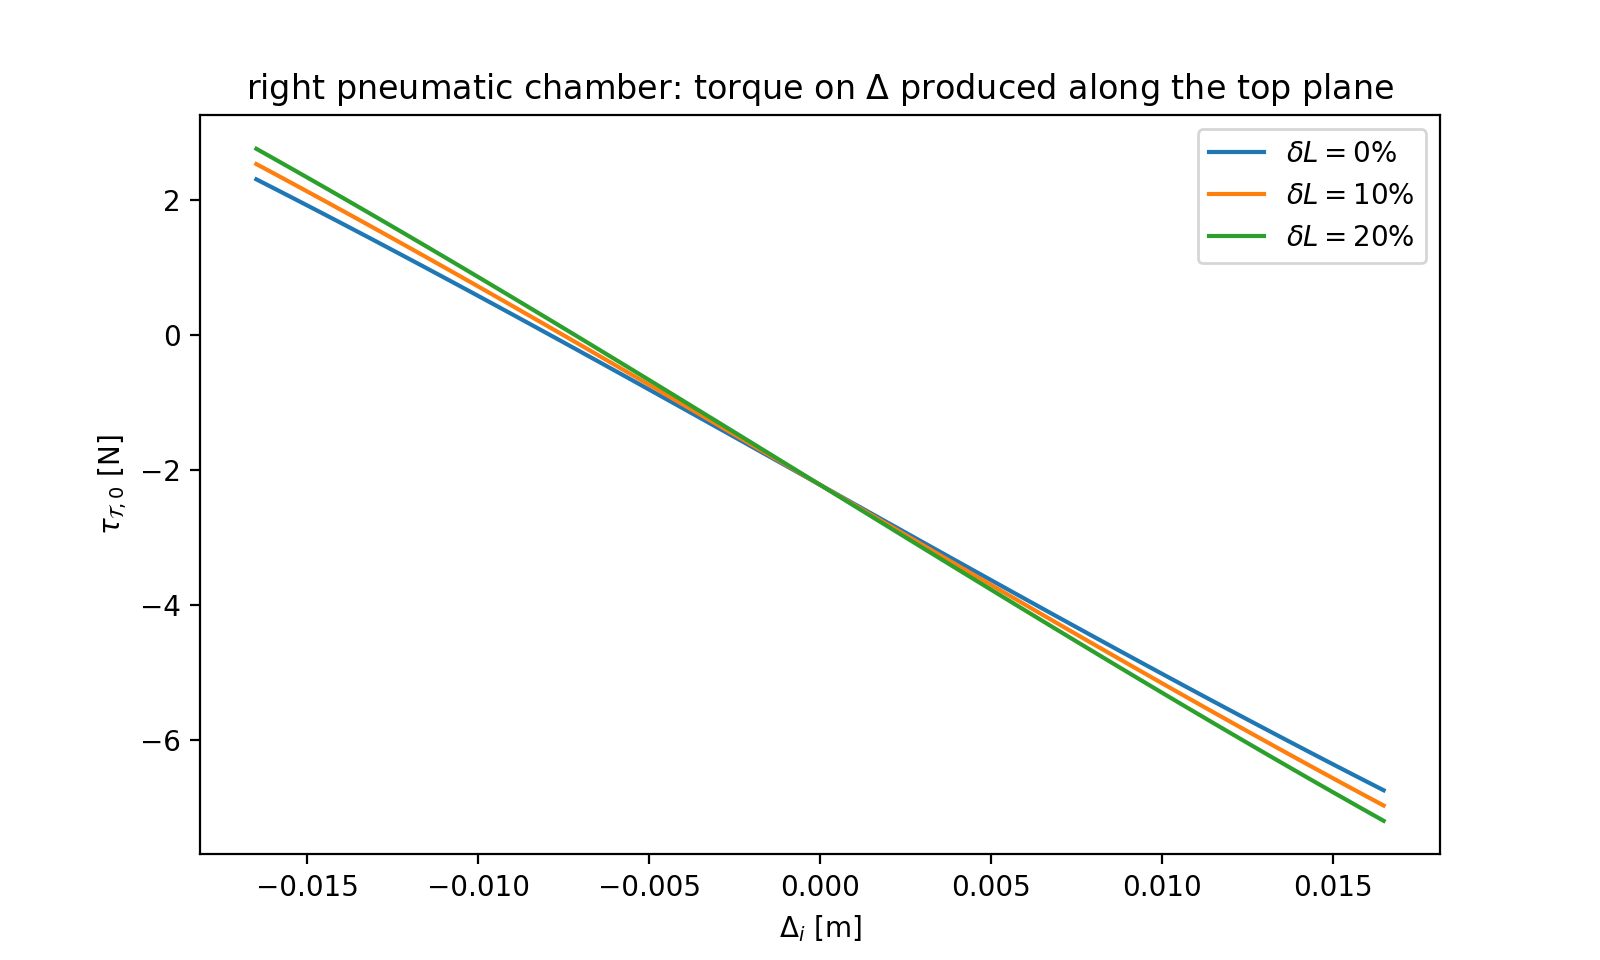
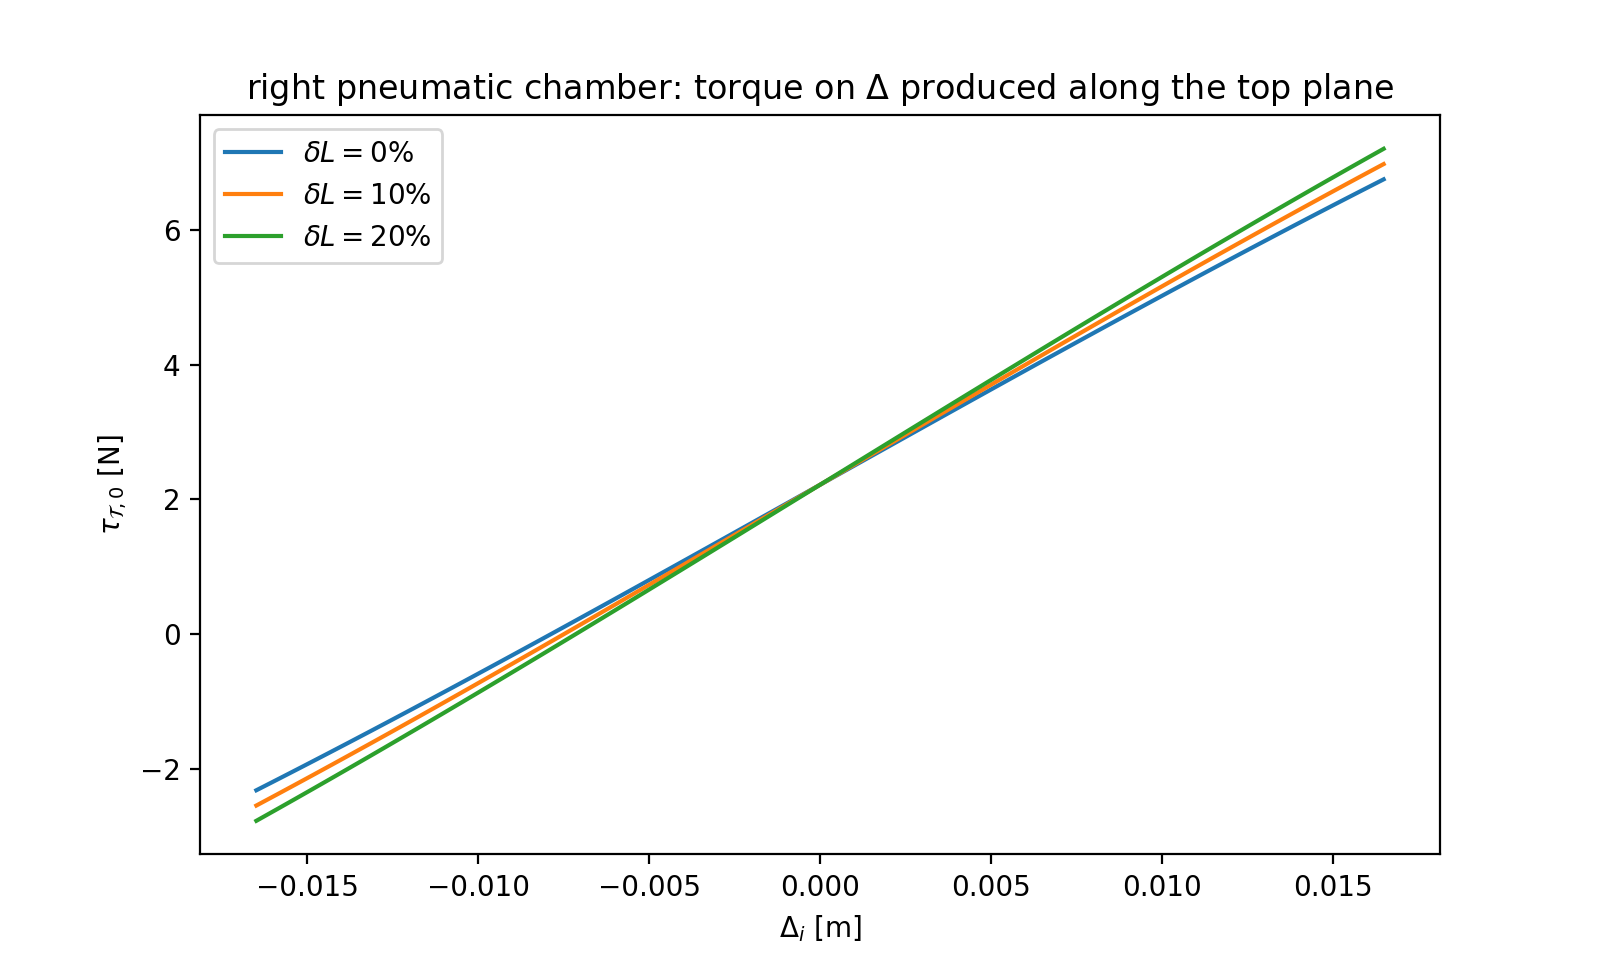
Update plots

diff --git a/pneumatic_actuation_symbolic_derivation/derive_jacobian_based_planar_model.py b/pneumatic_actuation_symbolic_derivation/derive_jacobian_based_planar_model.py
@@ -308,8 +308,8 @@ if __name__ == '__main__':
     b_C = 8.7*10**(-3)
 
     model = JacobianBasedPlanarPneumaticActuationModel(L_0, d, R_C_in, R_C_out, b_C)
-    # model.perpendicular_force_at_tip()
-    # model.force_at_center_of_pressure_at_tip()
-    # model.pneumatic_tube()
+    model.perpendicular_force_at_tip()
+    model.force_at_center_of_pressure_at_tip()
+    model.pneumatic_tube()
     model.pneumatic_chamber(side="left")
     model.pneumatic_chamber(side="right")
